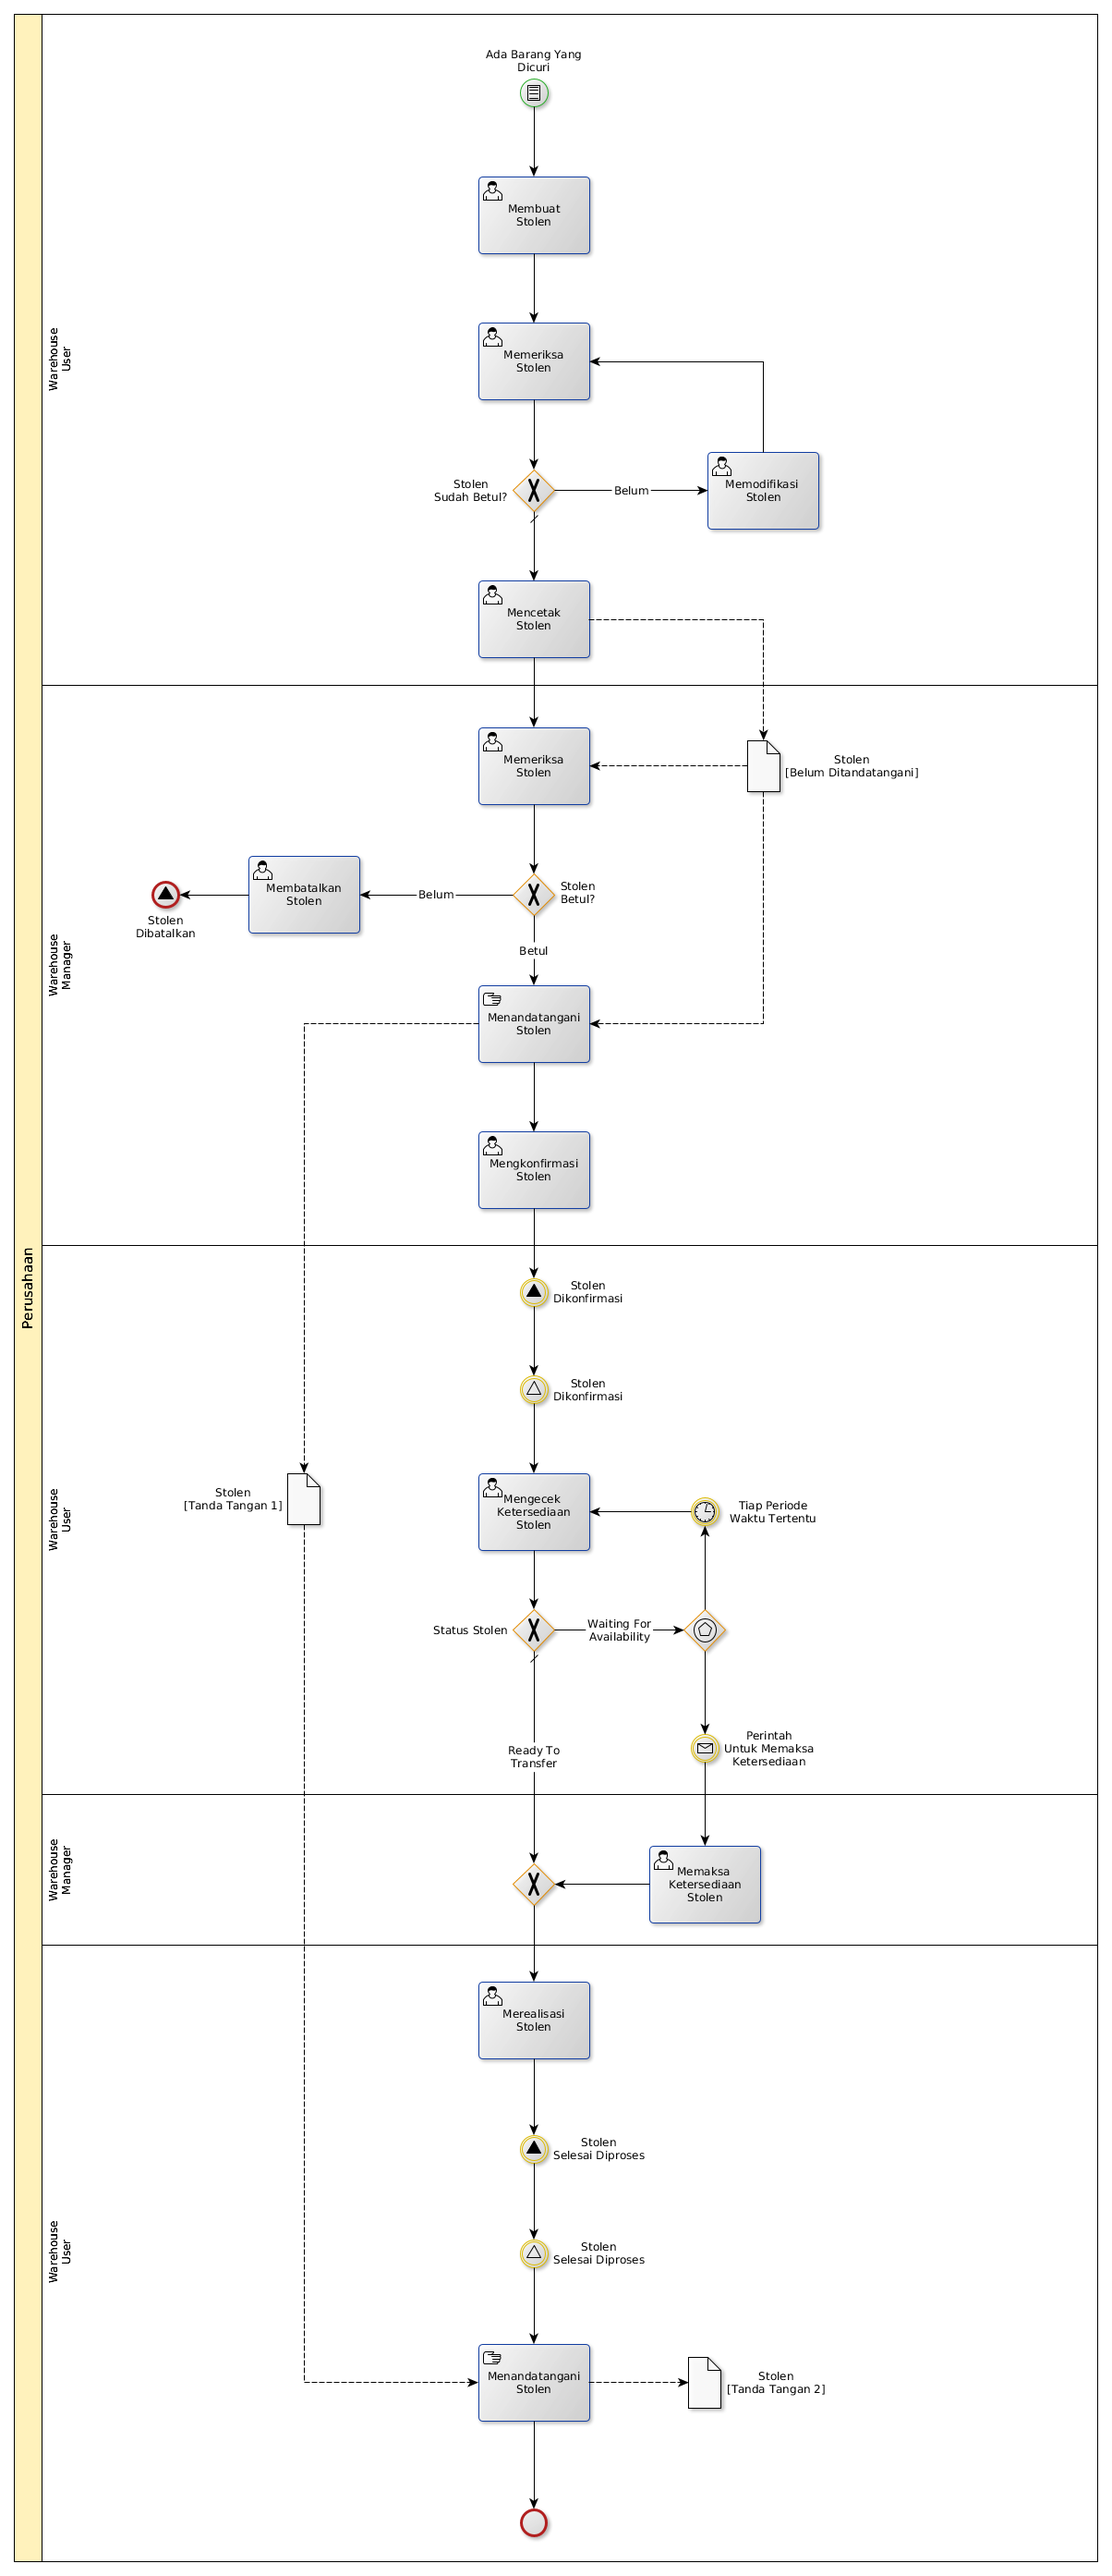
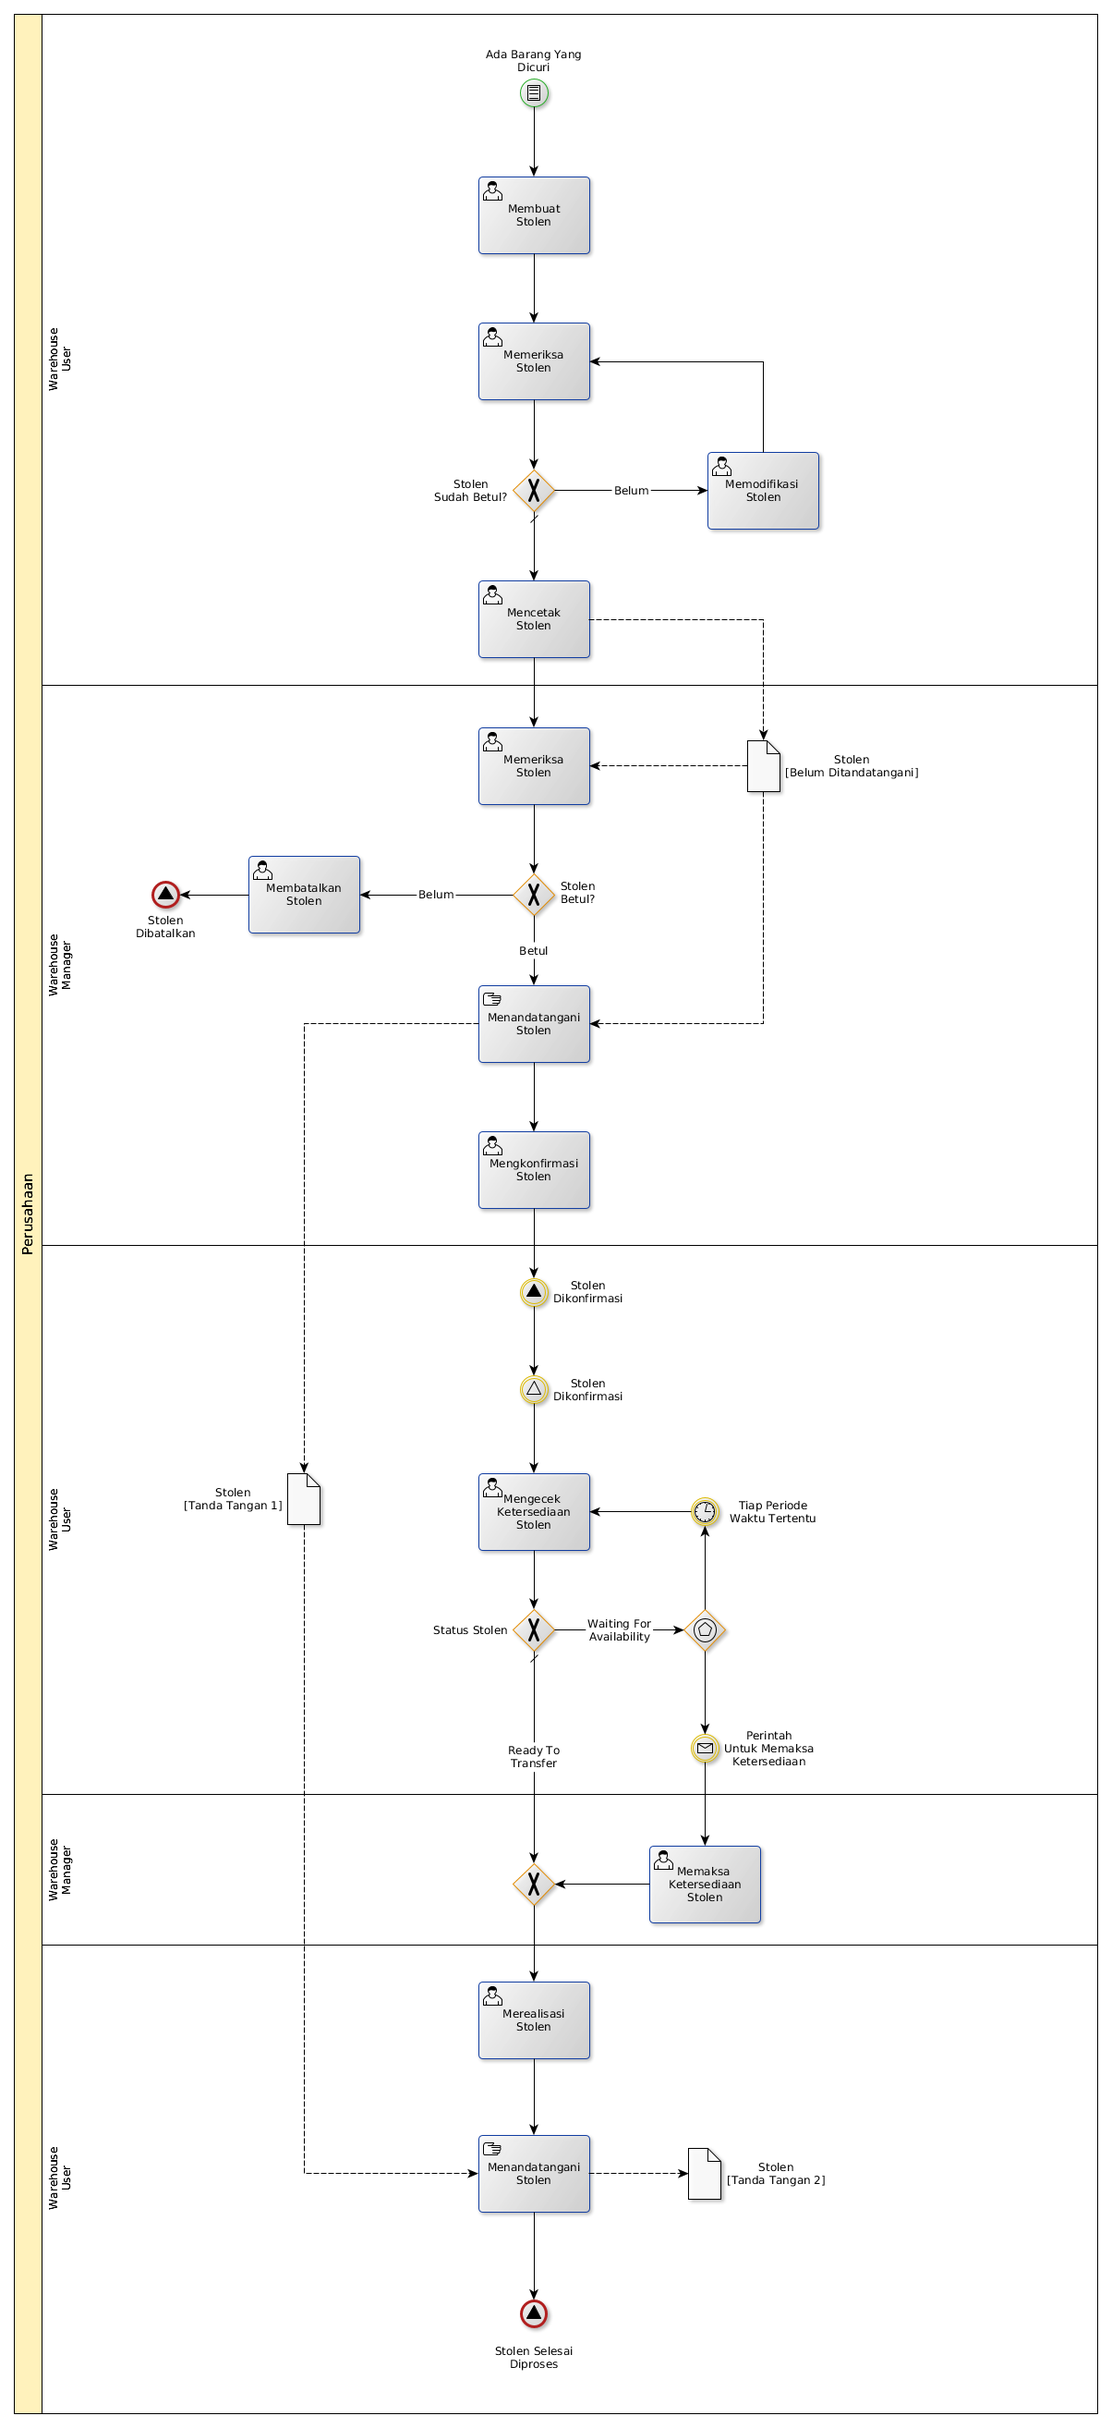
Revisi prosedur pencatatan barang yg dicuri

diff --git a/src/inventory/merevisi-stolen.md b/src/inventory/merevisi-stolen.md
@@ -1,8 +1,8 @@
-# Mencatat Barang Yang Dicuri
+# Merevisi Pencatatan Barang Yang Dicuri
 
 ## <a name="input">A. INPUT</a>
 
-* *Condition*: Ada barang yang dicuri
+* *Condition*: Ada kebutuhan untuk merevisi stolen dengan status **Cancel**
 
 ## <a name="role">B. ROLE YANG TERLIBAT</a>
 
@@ -11,7 +11,7 @@
 
 ## <a name="prosedur">C. PROSEDUR KERJA</a>
 
-![](../img/mencatat-barang-dicuri.png)
+![](../img/merevisi-barang-dicuri.png)
 
 ## <a name="output">D. OUTPUT</output>
 

diff --git a/src/SUMMARY.md b/src/SUMMARY.md
@@ -60,6 +60,7 @@
     - [Membuang Barang](./inventory/consume.md)
     - [Mencatat Barang Yang Hilang](./inventory/missing.md)
     - [Mencatat Barang Yang Dicuri](./inventory/stolen.md)
+    - [Merevisi Pencatatan Barang Yang Dicuri](./inventory/merevisi-stolen.md)
 - [Sales](./sales.md)
 - [Purchase](./purchase.md)
 - [Manufacture](./manufacture.md)
